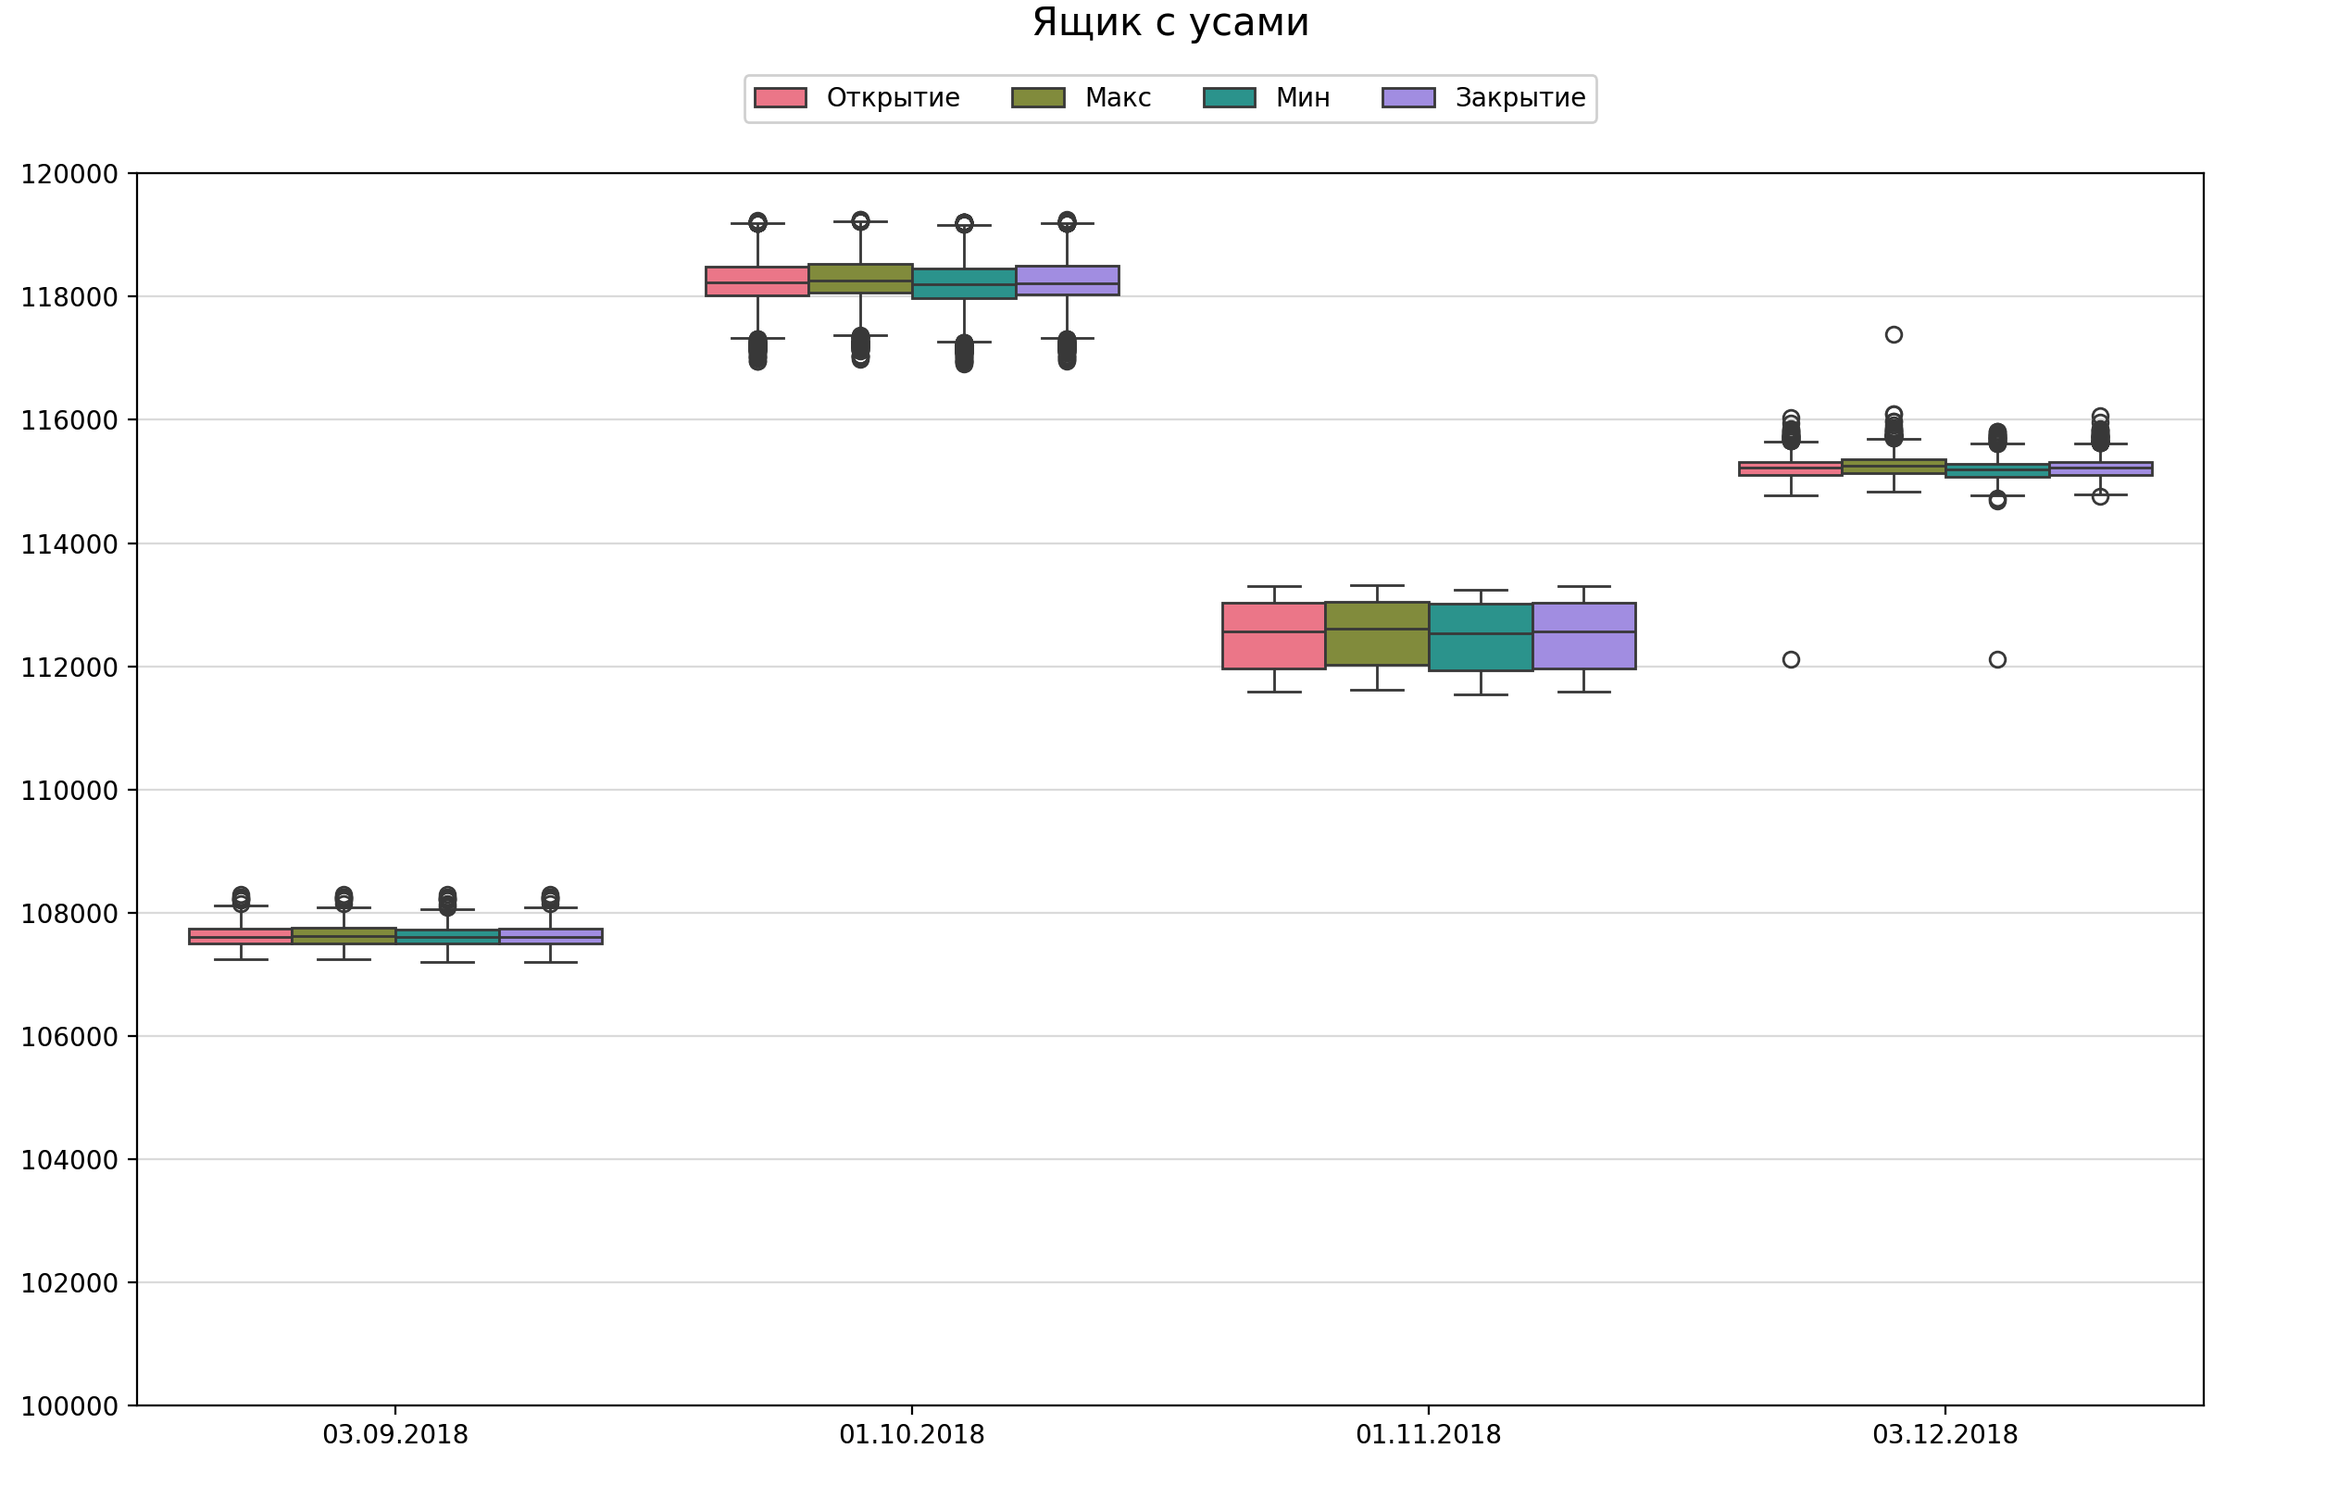
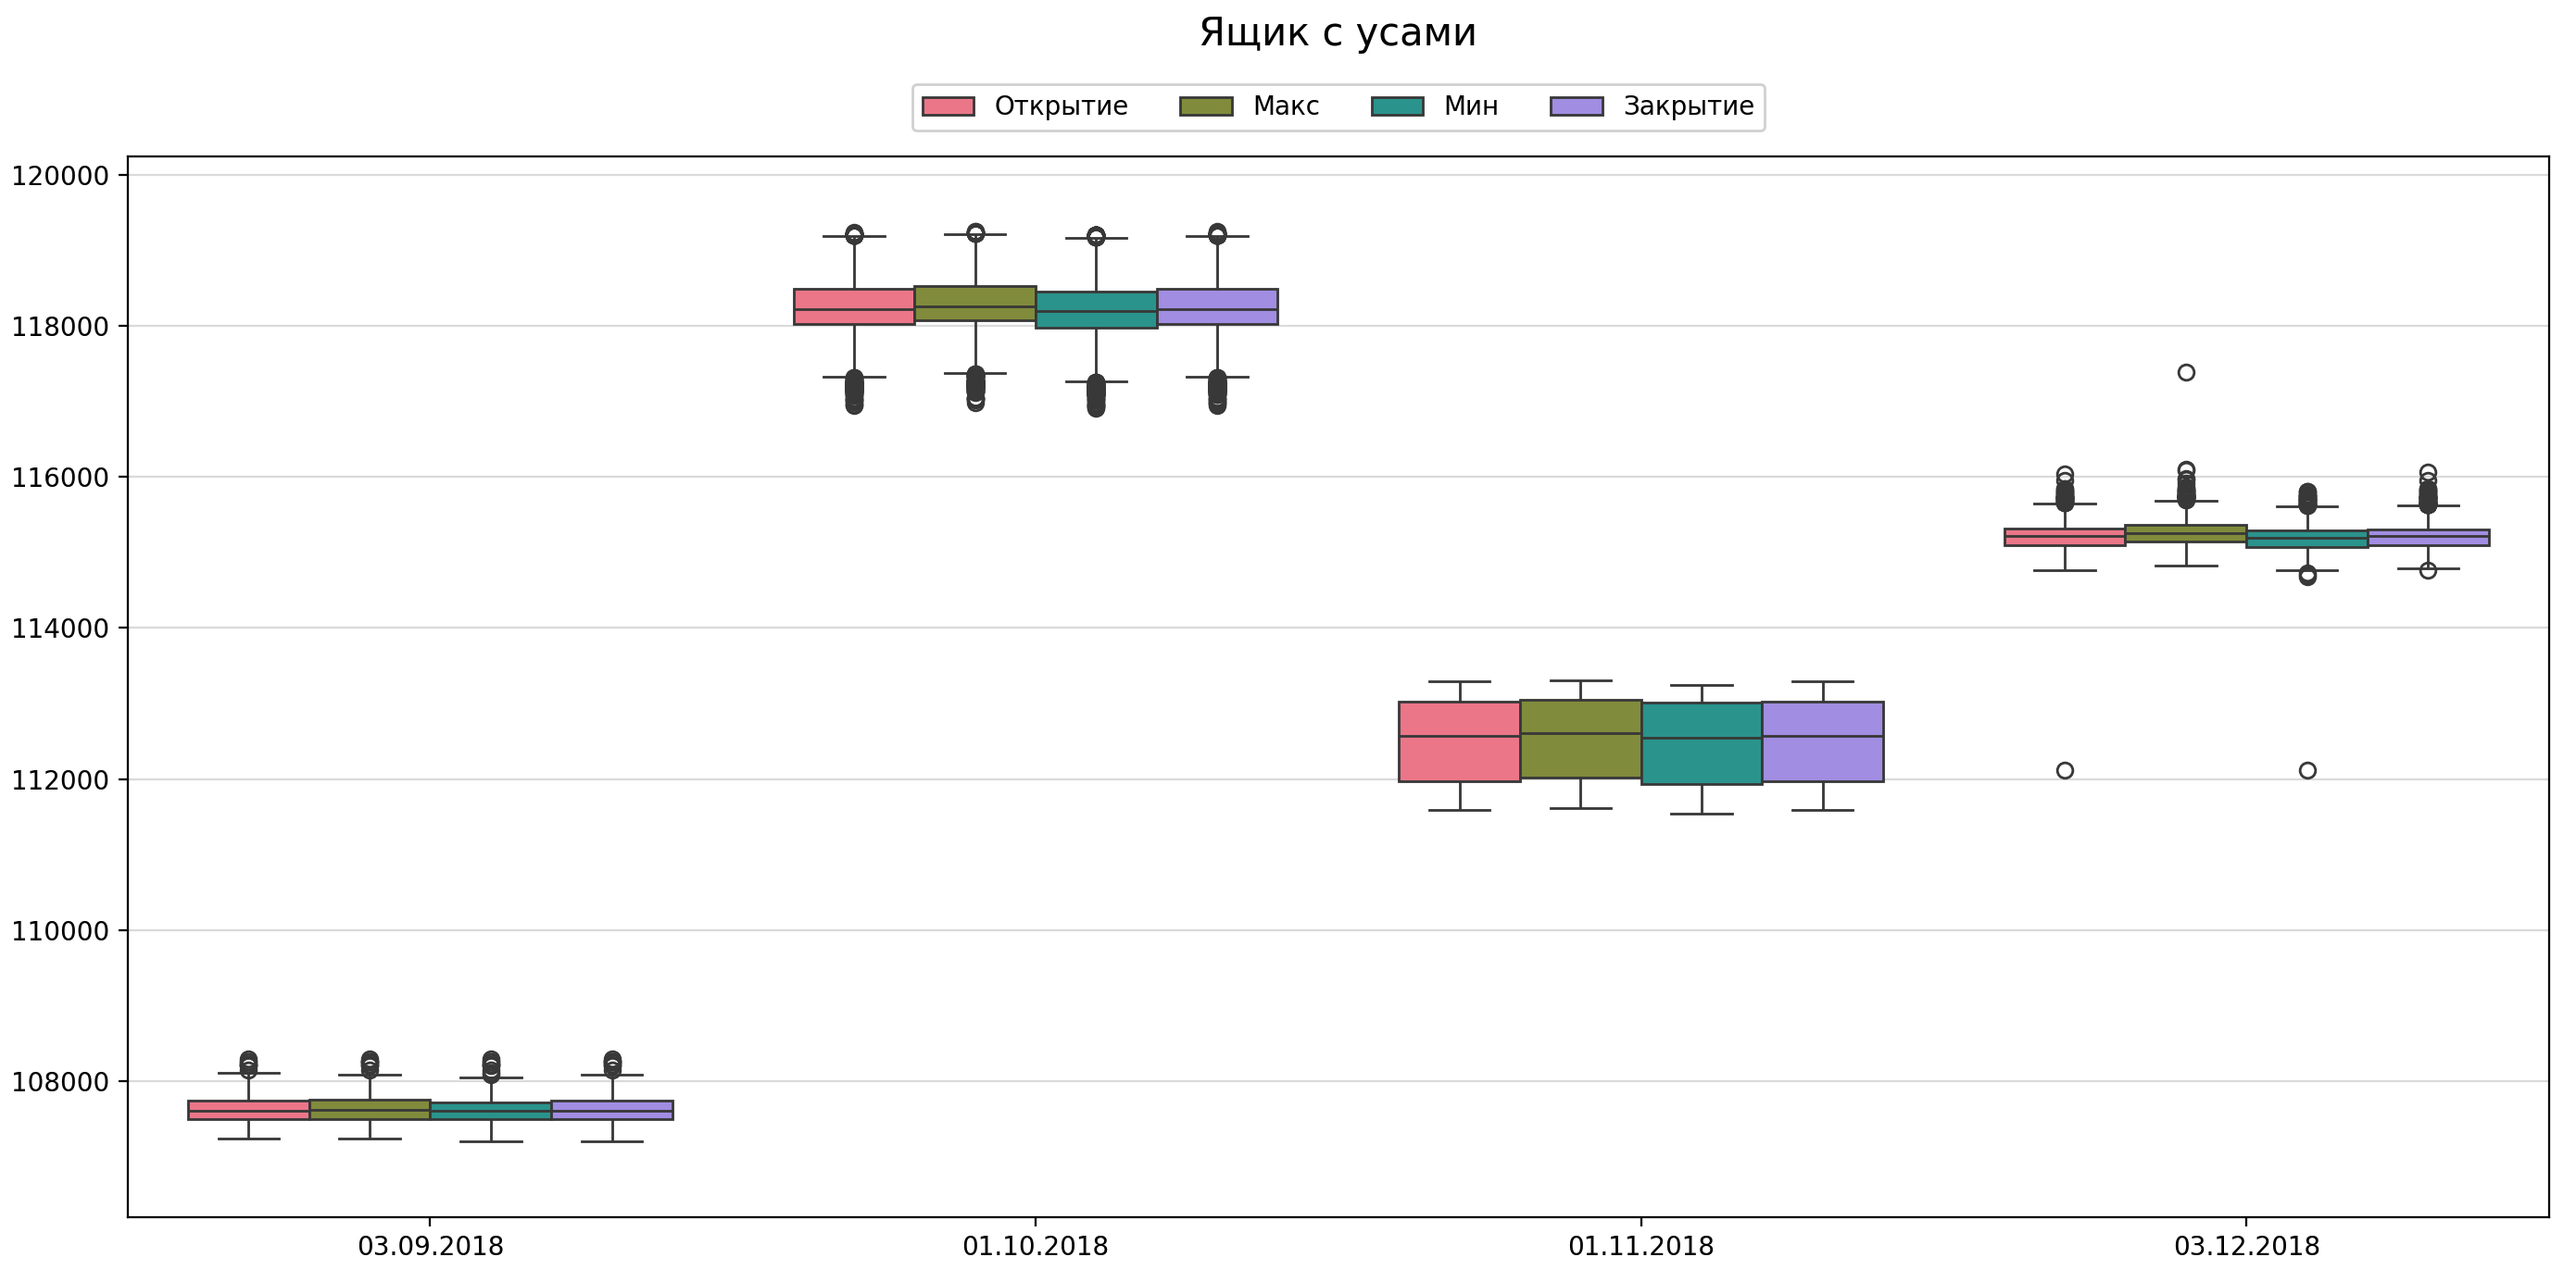
Add files via upload

diff --git a/1 Информатика/lab5/box_and_whisker.py b/1 Информатика/lab5/box_and_whisker.py
@@ -1,0 +1,42 @@
+import pandas as pd
+import seaborn as sns
+import matplotlib.pyplot as plt
+from matplotlib.ticker import MultipleLocator
+def create_box_and_whisker(csv_file):
+    try:
+        data = pd.read_csv(csv_file, sep=';', encoding='utf-8')
+        #пробуем найти столбец с датой
+        potential_data_column = data.select_dtypes(include=['object']).columns
+        data_column = None
+        for i in potential_data_column:
+            try:
+                data[i] = pd.to_datetime(data[i], dayfirst=True)
+                data_column = i
+                break
+            except ValueError:
+                continue
+        if data_column is None:
+            raise ValueError("Ошибка! Не удалось определить столбец с датой")
+        #определяем столбцы с числовыми данными
+        value_columns = data.select_dtypes(include=['int64', 'float64']).columns.tolist() #список, содержащий названия столбцов с числами
+        if not value_columns:
+            raise ValueError("Числовые столбцы не были найдены")
+        #преобразуем данные в длинный формат, чтобы потом использовать их для seaborn
+        new_data = pd.melt(data, id_vars=[data_column], value_vars=value_columns)
+        plt.figure(figsize=(14, 7))
+        sns.boxplot(data=new_data, x=new_data[data_column].dt.strftime('%d.%m.%Y'), y='value', hue='variable', palette='husl')
+        plt.title('Ящик с усами', fontsize=15, x=0.5, y=1.09)
+        plt.xlabel('')
+        plt.ylabel('')
+        plt.legend(loc='upper center', bbox_to_anchor=(0.5, 1.08), ncol=4, title=None)
+        #автоматически определяем диапазон меток для оси Y
+        plt.ylim(new_data['value'].min()-1000, new_data['value'].max()+1000)
+        #устанавливаем разделитель для меток на оси Y
+        plt.gca().yaxis.set_major_locator(MultipleLocator(2000))
+        plt.grid(axis='y', linestyle='-', alpha=0.4)
+        plt.tight_layout()
+        plt.show()
+    except Exception as error:
+        print(f"Ошибка: {error}")
+
+create_box_and_whisker('/Users/sofiaabdullaeva/Downloads/additional_task2.csv')
